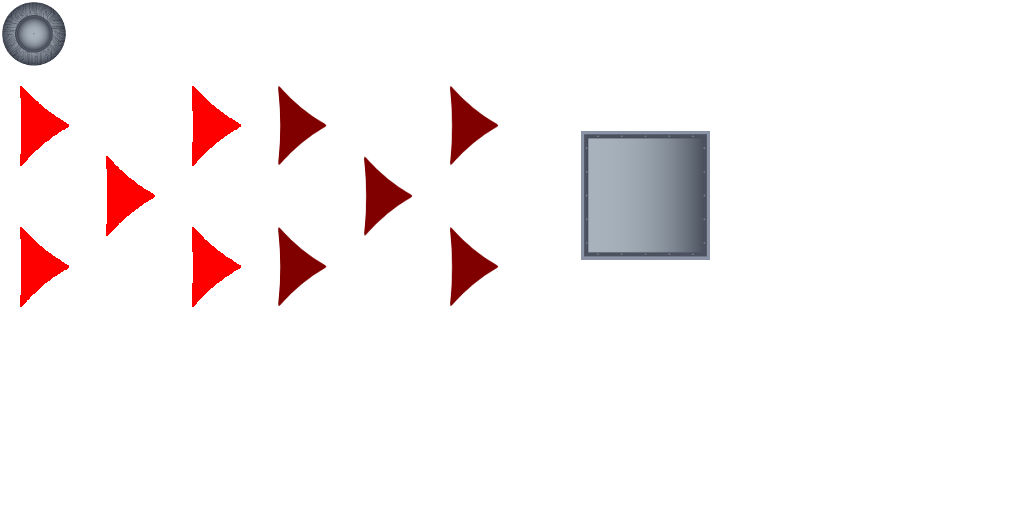
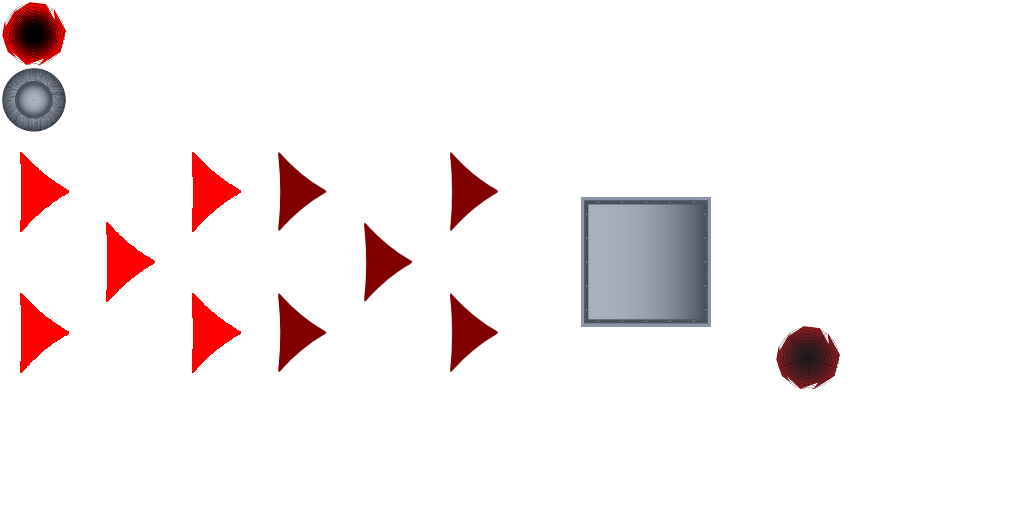
implement custom appearence for enemies

diff --git a/core/src/com/samwagg/gravity/main_game_module/game/game_objects/AICharacter.java b/core/src/com/samwagg/gravity/main_game_module/game/game_objects/AICharacter.java
@@ -1,5 +1,6 @@
 package com.samwagg.gravity.main_game_module.game.game_objects;
 
+import com.badlogic.gdx.graphics.g2d.Sprite;
 import com.badlogic.gdx.physics.box2d.World;
 import com.samwagg.gravity.Constants;
 import com.samwagg.gravity.ai.EnemySteeringAgent;
@@ -11,14 +12,22 @@ public class AICharacter extends GameCharacter {
 
     public EnemySteeringAgent driver;
 
+    private Sprite pursuingSprite;
+
     public AICharacter(float screenX, float screenY, World world, Constants constants) {
-        super(screenX, screenY, world, constants);
+        super(screenX, screenY, world, constants.ATLAS.createSprite("enemy"), constants);
+        pursuingSprite = constants.ATLAS.createSprite("enemy_lit");
         driver = new EnemySteeringAgent(physX, physY, this);
         body.getFixtureList().get(0).setUserData(this);
     }
 
     public void pursue(GameCharacter charToPursue) {
+        sprite = pursuingSprite;
         driver.pursue(charToPursue);
+    }
+
+    public boolean isPursuing() {
+        return driver.getSteeringBehavior() != null;
     }
 
     public void update(float delta) {

diff --git a/core/src/com/samwagg/gravity/main_game_module/game/GravityGameScreen.java b/core/src/com/samwagg/gravity/main_game_module/game/GravityGameScreen.java
@@ -179,6 +179,9 @@ public class GravityGameScreen implements Screen, MainGameView, PauseMenuListene
 
         for (AICharacter enemy : model.getEnemies()) {
             enemy.getSprite().draw(game.batch);
+            if (enemy.isPursuing()) {
+                enemy.getSprite().rotate(1f);
+            }
         }
 
         Gdx.gl.glEnable(GL20.GL_BLEND);
